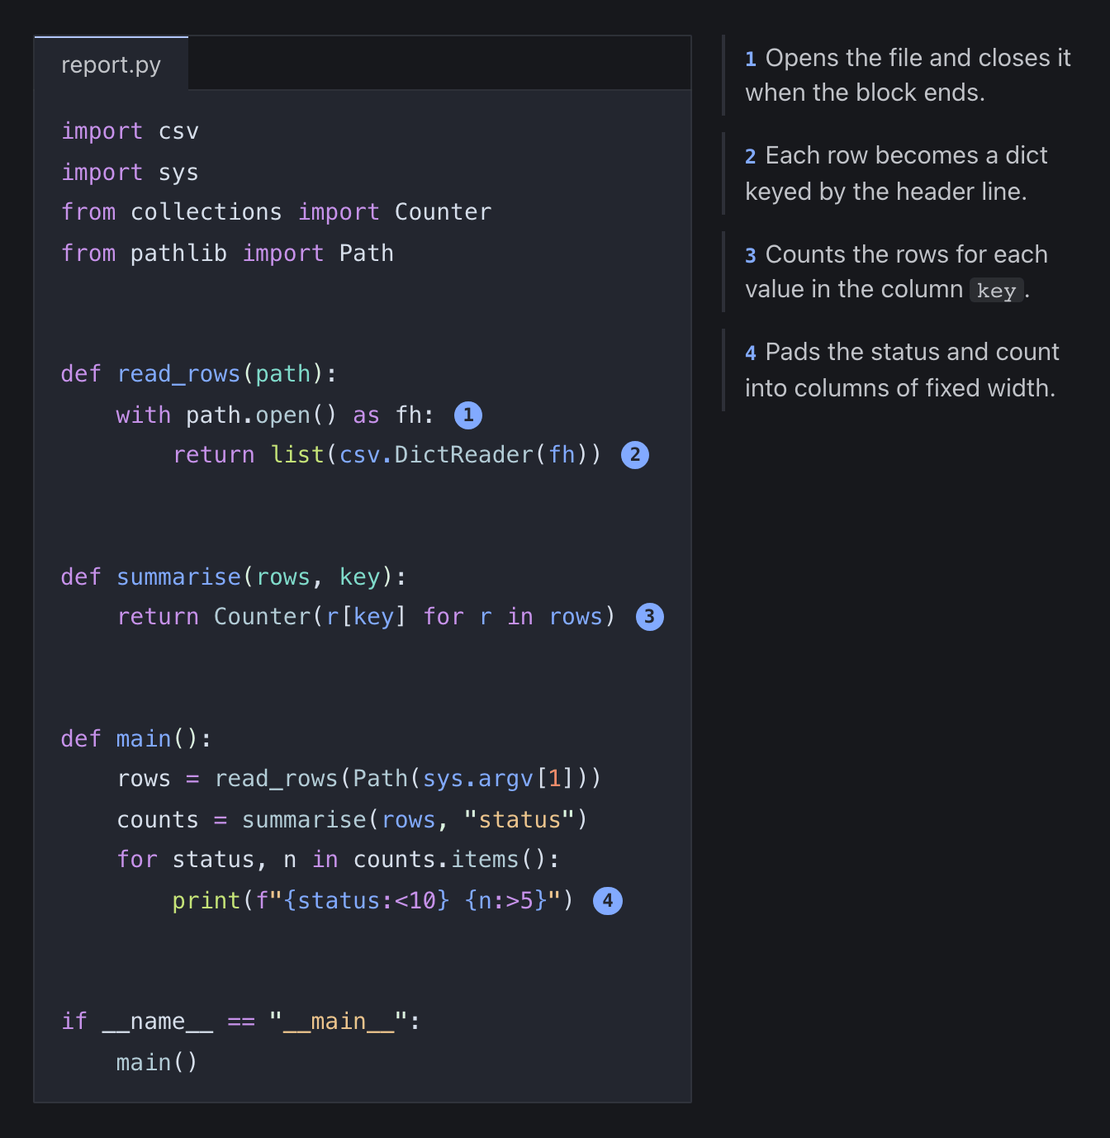
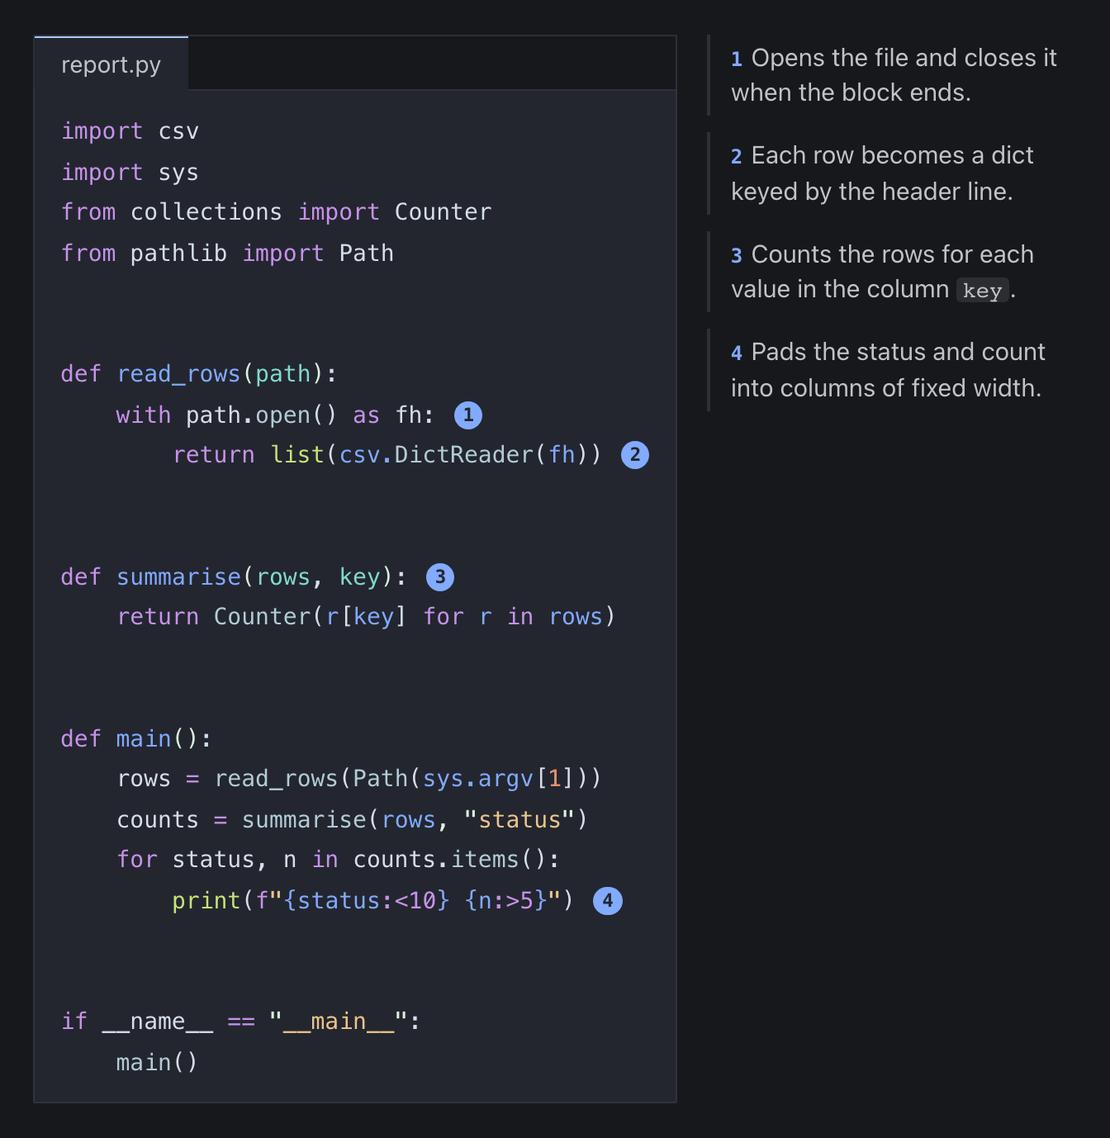
annotations: side-by-side width from the longest line, spread on pages without a table of contents
Each side-by-side block gets a 600, 800 or 1000 px container threshold from its longest line, so a block with long lines shows the notes as a list instead of scrolling in a narrow code column. On a page without a table of contents, blocks of 800 and 1000 px spread by the same amount on both sides of the content column, as far as their columns need.

Adds an unlisted docs demo page without a table of contents, and Playwright checks at several widths, with a table of contents, and with a classic scrollbar.

Changed region(s): [[0.5938, 0.0312, 0.9688, 0.3745], [0.5625, 0.5305, 0.625, 0.5617], [0.375, 0.4993, 0.4062, 0.5305]]

diff --git a/packages/starlight-codeblocks/src/expressive-code/annotations.ts b/packages/starlight-codeblocks/src/expressive-code/annotations.ts
@@ -25,6 +25,29 @@ declare module '@expressive-code/core' {
   }
 }
 
+/** Container widths, in px, at which a side-by-side block can become two columns. */
+const SIDE_SIZES = [600, 800, 1000];
+
+/**
+ * The smallest size whose code column shows `chars` characters without scrolling: 8.4 px per character
+ * at Starlight's 14 px code font, 34 px of frame padding, and 210 px for the gap and the notes.
+ * Longer lines get the largest size and scroll.
+ */
+function sideSize(chars: number) {
+  const need = 244 + chars * 8.4;
+  return SIDE_SIZES.find((w) => w >= need) ?? SIDE_SIZES[SIDE_SIZES.length - 1];
+}
+
+/**
+ * Blocks too wide for Starlight's content column, placed straight in a page without a table of contents.
+ * They spread over the free space on both sides of the column; the grid keeps to the column until
+ * the columns fit. It must start with `:root` and not name `.expressive-code`, or Expressive Code
+ * scopes it inside the block.
+ */
+const BREAKOUT = `:root:not([data-has-toc]) .sl-markdown-content > * > :is(${SIDE_SIZES.slice(1)
+  .map((w) => `.${PREFIX}-side-${w}`)
+  .join(', ')})`;
+
 const styleSettings = new PluginStyleSettings({
   defaultValues: {
     codeblocksAnnotations: {
@@ -138,6 +161,19 @@ export function pluginAnnotations(): CodeblocksPlugin {
 .ec-line.${cls('-lit')} { background: ${cssVar('codeblocksAnnotations.lineBackground')}; }
 .ec-line.${cls('-lit')} .code { --ecLineBrdCol: ${cssVar('codeblocks.accent')}; --ecGtrBrdWd: 3px; }
 .${PREFIX}-side { container-type: inline-size; }
+.${PREFIX}-side-grid { margin-inline: var(--${PREFIX}-side-outset, 0px); }
+@media (min-width: 72rem) {
+  ${BREAKOUT} {
+    --${PREFIX}-side-outset: max(0px, (100vw - 2 * var(--sl-content-pad-x) - var(--sl-content-width)) / 2);
+    margin-inline: calc(-1 * var(--${PREFIX}-side-outset));
+  }
+  :root[data-has-sidebar]${BREAKOUT.slice(':root'.length)} {
+    --${PREFIX}-side-outset: max(
+      0px,
+      (100vw - var(--sl-sidebar-width) - 2 * var(--sl-content-pad-x) - var(--sl-content-width)) / 2
+    );
+  }
+}
 .${cls('-notes')} {
   margin: 0.75rem 0 0;
   padding: 0;
@@ -170,20 +206,23 @@ export function pluginAnnotations(): CodeblocksPlugin {
   background: color-mix(in srgb, currentColor 12%, transparent);
   font-size: 0.9em;
 }
-@container (min-width: 600px) {
-  .${PREFIX}-side-grid {
+${SIDE_SIZES.map(
+  (w) => `@container (min-width: ${w}px) {
+  .${PREFIX}-side-${w} > .${PREFIX}-side-grid {
+    margin-inline: max(0px, min(var(--${PREFIX}-side-outset, 0px), (100% - ${w}px) / 2));
     display: grid;
     grid-template-columns: minmax(0, auto) minmax(12rem, 1fr);
     gap: 18px;
     align-items: start;
   }
-  .${cls('-notes')} {
+  .${PREFIX}-side-${w} .${cls('-notes')} {
     position: sticky;
     top: calc(var(--sl-nav-height, 0px) + var(--sl-mobile-toc-height, 0px) + 1rem);
     margin: 0;
   }
-  .${PREFIX}-side-static .${cls('-notes')} { position: static; }
-}
+}`,
+).join('\n')}
+.${PREFIX}-side-static .${cls('-notes')} { position: static; }
 .${cls('-list')} { display: none; }
 @media print {
   .${cls('-list')} {
@@ -252,9 +291,16 @@ export function pluginAnnotations(): CodeblocksPlugin {
         }
         // The notes sit outside the frame, so the block becomes a two-column grid when its container is wide.
         const notes = h('ol', { class: cls('-notes') }, items);
-        renderData.blockAst = h('div', { class: `${PREFIX}-side not-content`, dataScbAnnotations: '' }, [
-          h('div', { class: `${PREFIX}-side-grid` }, [renderData.blockAst, notes]),
-        ]);
+        // A number takes about 3 characters, and the copy button pads the first line by about 4.
+        const numbered = new Set(ordered.map(({ directive }) => directive.lines[0]));
+        const size = sideSize(
+          Math.max(...lines.map((line, i) => line.text.length + (numbered.has(line) ? 3 : 0) + (i === 0 ? 4 : 0))),
+        );
+        renderData.blockAst = h(
+          'div',
+          { class: `${PREFIX}-side ${PREFIX}-side-${size} not-content`, dataScbAnnotations: '' },
+          [h('div', { class: `${PREFIX}-side-grid` }, [renderData.blockAst, notes])],
+        );
       },
     },
   };

diff --git a/docs/e2e/side-by-side.test.ts b/docs/e2e/side-by-side.test.ts
@@ -127,3 +127,89 @@ test('the code of every example fits its column on a desktop, without a scroll b
     }
   }
 });
+
+type Page = import('@playwright/test').Page;
+
+/** The box of a side-by-side block's grid and the content column, and whether the notes are beside the code. */
+async function measure(page: Page, index: number) {
+  const side = page.locator('.sl-markdown-content > .expressive-code > .scb-side').nth(index);
+  const grid = side.locator('.scb-side-grid');
+  return {
+    column: await page.locator('.sl-markdown-content').boundingBox(),
+    grid: await grid.boundingBox(),
+    display: await grid.evaluate((el) => getComputedStyle(el).display),
+    overflow: await page.evaluate(() => document.documentElement.scrollWidth - document.documentElement.clientWidth),
+  };
+}
+
+test.describe('on a page without a table of contents', () => {
+  test.skip(({ isMobile }) => isMobile, 'Phones have no space beside the content column.');
+
+  test('wide blocks spread by the same amount on each side, as far as the columns need', async ({ page }) => {
+    await page.setViewportSize({ width: 1440, height: 900 });
+    await page.goto('./features/side-by-side-annotations/wide/');
+    for (const [index, width] of [
+      [0, 800],
+      [1, 1000],
+    ]) {
+      const { column, grid, display, overflow } = await measure(page, index);
+      expect(display).toBe('grid');
+      expect(grid?.width).toBeCloseTo(width, 0);
+      const left = (column?.x ?? 0) - (grid?.x ?? 0);
+      const right = (grid?.x ?? 0) + (grid?.width ?? 0) - (column?.x ?? 0) - (column?.width ?? 0);
+      expect(Math.abs(left - right)).toBeLessThan(1);
+      expect(overflow).toBe(0);
+    }
+  });
+
+  test('a block that fits the content column does not spread', async ({ page }) => {
+    await page.setViewportSize({ width: 1440, height: 900 });
+    await page.goto('./features/side-by-side-annotations/wide/');
+    const { column, grid, display } = await measure(page, 2);
+    expect(display).toBe('grid');
+    expect(grid?.x).toBeCloseTo(column?.x ?? 0, 0);
+    expect(grid?.width).toBeCloseTo(column?.width ?? 0, 0);
+  });
+
+  test('a block keeps to the content column when the window is too narrow for its columns', async ({ page }) => {
+    await page.setViewportSize({ width: 1280, height: 900 });
+    await page.goto('./features/side-by-side-annotations/wide/');
+    expect((await measure(page, 0)).display).toBe('grid');
+    const { column, grid, display, overflow } = await measure(page, 1);
+    expect(display).toBe('block');
+    expect(grid?.x).toBeCloseTo(column?.x ?? 0, 0);
+    expect(grid?.width).toBeCloseTo(column?.width ?? 0, 0);
+    expect(overflow).toBe(0);
+  });
+
+  test('no block spreads below the width at which Starlight shows a table of contents', async ({ page }) => {
+    await page.setViewportSize({ width: 1100, height: 900 });
+    await page.goto('./features/side-by-side-annotations/wide/');
+    for (const index of [0, 1]) {
+      const { column, grid } = await measure(page, index);
+      expect(grid?.width).toBeCloseTo(column?.width ?? 0, 0);
+    }
+  });
+});
+
+test('a wide block keeps to the content column on a page with a table of contents', async ({ page, isMobile }) => {
+  test.skip(isMobile, 'The phone layout has no column.');
+  await page.setViewportSize({ width: 1920, height: 900 });
+  const { render } = await import('../../packages/starlight-codeblocks/test/render.ts');
+  const { html } = await render(
+    [
+      '```py annotations="side"',
+      'rows = [r for r in read_rows(path) if r["ok"]]  # [!annotate] Keeps the rows to report.',
+      '```',
+    ].join('\n'),
+  );
+  await page.evaluate((html) => {
+    const box = document.createElement('div');
+    box.innerHTML = html;
+    document.querySelector('.sl-markdown-content')?.prepend(box.firstElementChild as Element);
+  }, html);
+  const { column, grid, display } = await measure(page, 0);
+  expect(display).toBe('block');
+  expect(grid?.x).toBeCloseTo(column?.x ?? 0, 0);
+  expect(grid?.width).toBeCloseTo(column?.width ?? 0, 0);
+});

diff --git a/docs/e2e/agents.test.ts b/docs/e2e/agents.test.ts
@@ -1,9 +1,11 @@
 import { readdirSync, readFileSync } from 'node:fs';
 import { expect, test } from '@playwright/test';
+import { unlisted } from '../src/sidebar.mjs';
 
 const site = 'https://ewels.github.io/starlight-codeblocks/';
 const sitemap = readFileSync(new URL('../dist/sitemap-0.xml', import.meta.url), 'utf8');
 const pages = [...sitemap.matchAll(/<loc>[^<]*?\/starlight-codeblocks\/([^<]*)<\/loc>/g)].map(([, path]) => path ?? '');
+const listed = pages.filter((path) => !unlisted.includes(path.replace(/\/$/, '')));
 const local = (url: string) => `./${url.slice(site.length)}`;
 
 const oneProject = () =>
@@ -32,13 +34,13 @@ test('llms.txt lists the Markdown version of every page', async ({ request }) =>
   const response = await request.get('./llms.txt');
   expect(response.status()).toBe(200);
   const text = await response.text();
-  for (const path of pages) expect(text).toContain(`(${site}${path ? path.replace(/\/$/, '') : 'index'}.md)`);
+  for (const path of listed) expect(text).toContain(`(${site}${path ? path.replace(/\/$/, '') : 'index'}.md)`);
 });
 
 test('llms-full.txt has every page', async ({ request }) => {
   oneProject();
   const text = await (await request.get('./llms-full.txt')).text();
-  for (const path of pages) expect(text).toContain(`<!-- ${site}${path} -->`);
+  for (const path of listed) expect(text).toContain(`<!-- ${site}${path} -->`);
 });
 
 test('the agent skill page has every skill file, on the page and in its Markdown', async ({ page, request }) => {

diff --git a/packages/starlight-codeblocks/test/annotations.test.ts b/packages/starlight-codeblocks/test/annotations.test.ts
@@ -53,7 +53,7 @@ test('annotations="side" puts the notes in a column beside the block, with numbe
     block('py annotations="side"', 'x = 1  # [!annotate] Sets `x`.', 'y = 2  # [!annotate] Sets y.'),
   );
   expect(html).toMatch(
-    /^<div class="expressive-code"><div class="scb-side not-content" data-scb-annotations=""><div class="scb-side-grid"><figure/,
+    /^<div class="expressive-code"><div class="scb-side scb-side-600 not-content" data-scb-annotations=""><div class="scb-side-grid"><figure/,
   );
   expect(html).toContain('<div class="ec-line" data-scb-anno="1">');
   expect(html).toContain('<span class="scb-annotation scb-annotation-num" aria-hidden="true">1</span>');
@@ -62,6 +62,17 @@ test('annotations="side" puts the notes in a column beside the block, with numbe
   );
   expect(html).not.toContain('popover');
   expect(copyText).toBe('x = 1\ny = 2');
+});
+
+test('annotations="side" needs a wider container for the columns when the lines are longer', async () => {
+  const size = async (chars: number) => {
+    const { html } = await render(block('py annotations="side"', `x = ${'1'.repeat(chars - 4)}  # [!annotate] Note`));
+    return html.match(/scb-side-(\d+)/)?.[1];
+  };
+  expect(await size(30)).toBe('600');
+  expect(await size(55)).toBe('800');
+  expect(await size(80)).toBe('1000');
+  expect(await size(200)).toBe('1000');
 });
 
 test('warns about an unknown annotations value and uses popovers', async () => {

diff --git a/docs/e2e/side-by-side-scrollbar.test.ts b/docs/e2e/side-by-side-scrollbar.test.ts
@@ -1,0 +1,23 @@
+import { expect, test } from '@playwright/test';
+
+// Playwright hides scrollbars by default, and `100vw` includes a classic one.
+test.use({ launchOptions: { ignoreDefaultArgs: ['--hide-scrollbars'] } });
+
+test('a wide side-by-side block does not make the page scroll sideways with a classic scrollbar', async ({
+  page,
+  isMobile,
+  browserName,
+}) => {
+  test.skip(isMobile || browserName !== 'chromium', 'Needs a desktop Chromium window.');
+  await page.setViewportSize({ width: 1440, height: 900 });
+  await page.goto('./features/side-by-side-annotations/wide/');
+  await page.addStyleTag({
+    content: '::-webkit-scrollbar { width: 17px; } ::-webkit-scrollbar-thumb { background: grey; }',
+  });
+  expect(await page.evaluate(() => innerWidth - document.documentElement.clientWidth)).toBeGreaterThan(10);
+  const grids = page.locator('.sl-markdown-content > .expressive-code > .scb-side > .scb-side-grid');
+  expect(await grids.nth(1).evaluate((el) => getComputedStyle(el).display)).toBe('grid');
+  expect(await page.evaluate(() => document.documentElement.scrollWidth - document.documentElement.clientWidth)).toBe(
+    0,
+  );
+});

diff --git a/docs/src/markdown.ts b/docs/src/markdown.ts
@@ -11,7 +11,7 @@ import {
   pageOptions,
   styleGroups,
 } from './components/reference.ts';
-import { sidebar } from './sidebar.mjs';
+import { sidebar, unlisted } from './sidebar.mjs';
 
 const base = import.meta.env.BASE_URL.replace(/\/$/, '');
 export const siteUrl = new URL(`${base}/`, import.meta.env.SITE).href;
@@ -31,6 +31,7 @@ export async function entriesInOrder() {
     groups.push({ label: group.label, entries: ids.map((id) => entries.get(id)).filter((e) => e !== undefined) });
     for (const id of ids) entries.delete(id);
   }
+  for (const id of unlisted) entries.delete(id);
   if (entries.size > 0) throw new Error(`Pages missing from the sidebar: ${[...entries.keys()].join(', ')}`);
   return groups;
 }

diff --git a/design/DECISIONS.md b/design/DECISIONS.md
@@ -1292,3 +1292,19 @@ Use this format:
 - Decision: The Sätteri plugin runs the code mention check only when the render has a `fileURL`. With no file, mention links stay links and the client module pairs them on the page.
 - Reason: starlight-pydocs renders each part of a docstring (the description, each Examples item) in its own render with no `fileURL`, so a mention in the description of a block in the Examples was always stripped. Pages that Astro renders from content files always have a `fileURL`, so their check still runs.
 - Alternatives: A way for pydocs to pass all fragments of one docstring in one render (a change to pydocs for one feature). Keeping the strip (the reported limit).
+
+## Side-by-side annotations: a width class from the longest line
+
+- Date: 2026-09-28
+- Step: after the plan
+- Decision: The side-by-side wrapper gets `scb-side-600`, `scb-side-800` or `scb-side-1000`, and the grid starts at that container width. The plugin picks the smallest width that holds the longest line at build time: 244 px (34 px of frame padding, 18 px of gap, 12rem of notes) plus 8.4 px per character, with 3 characters for a numbered line and 4 for the first line (the copy button). A block that is too long for 1000 px gets 1000 px and scrolls. The notes column is `minmax(12rem, 1fr)` beside `minmax(0, auto)` code.
+- Reason: With one 600 px threshold, most real blocks scrolled in a code column of about 42 characters on a default Starlight page, so the notes column cost more than it gave. Container queries cannot read a value per block, so a few classes are the closest CSS-only form. 8.4 px per character and the padding were measured in Chromium with Starlight's default 14 px code font; the estimate is within 1 px there.
+- Alternatives: A client script that measures the code and toggles the grid (layout shift, and JavaScript for a layout that works without it). `@container style()` queries (no Firefox support). No columns for blocks over 1000 px (loses the columns on wide splash pages, where a little scroll is better than a list).
+
+## Side-by-side annotations: spread past the content column on pages without a table of contents
+
+- Date: 2026-09-28
+- Step: after the plan
+- Decision: At 72rem and wider, on a page without `data-has-toc`, a `scb-side-800` or `scb-side-1000` wrapper that is a grandchild of `.sl-markdown-content` (its `.expressive-code` is directly on the page) gets `--scb-side-outset`: half of `100vw` minus the sidebar width (when `data-has-sidebar`), twice `--sl-content-pad-x` and `--sl-content-width`, and not below 0. Its inline margins are minus that value on each side, so the container widens symmetrically. The grid has the same value as positive margins, so it stays in the content column until the container reaches the block's width; from there its margins are `max(0px, min(outset, (100% - width) / 2))`, so it grows only to its width class. The docs have a demo page without a table of contents (`features/side-by-side-annotations/wide`), listed in `unlisted` in `sidebar.mjs` and left out of the sidebar and `llms.txt`.
+- Reason: Starlight keeps `--sl-content-width` at 45rem on a page without a table of contents and centres the column (`margin-inline: auto` at 72rem), so the space is free on both sides. Spreading only the blocks that need it keeps the text at a readable width, as in Distill and Tufte layouts; Starlight has no precedent of its own. A symmetric spread looks deliberate, where a block that sticks out on one side looks broken. `100vw` includes a classic scrollbar, which makes the outset up to half a scrollbar too large on each side; that eats into the 1.5rem page padding and does not overflow (a Playwright test with a 17 px scrollbar checks this). The selector starts with `:root` and does not name `.expressive-code`, because Expressive Code otherwise scopes it inside the block. Blocks in tabs, asides, lists and components do not match, because their parent is not directly on the page.
+- Alternatives: Telling authors to set `--sl-content-width: 60rem` on pages without a table of contents (widens the text too, and gives less space: 960 px against about 1090 px at 1440 px). Spreading to the right only (looks like a bug next to the text). A container on Starlight's `.main-pane` for an exact width (changes Starlight's layout for every element on the page). Spreading every side-by-side block (a block that fits would stop lining up with the text). An option to turn it off (nothing needs it yet; an author who does not want it keeps the table of contents).

diff --git a/design/PROGRESS.md b/design/PROGRESS.md
@@ -157,3 +157,5 @@ Update this file after each step in `PLAN.md`. Use one of these states: not star
 | Annotation popover out of the marker | done | The popover starts with a copy of the marker badge over the marker, and the box goes to the right of the line when it fits there without covering code or leaving the block or window; otherwise it opens centred under the marker as before, with the badge inside (DECISIONS.md). A 160 ms clip grow, off under reduced motion. Playwright checks for both placements, a narrow window, a long line, the keyboard and reduced motion. Docs, accessibility page, skill and README image updated. |
 | Docs site: page actions as a split button | done | `docs/src/components/PageTitle.astro` (docs site only): the four separate buttons became a split button, "Copy as Markdown" as the primary action plus a caret that opens a menu ("View as Markdown", "Open in Claude", "Open in ChatGPT") built on the native Popover API, with roving-tabindex arrow keys, Escape and outside click closing it, and focus returning to the caret (DECISIONS.md). Without JavaScript the whole split button is replaced by the three actions as plain links. `simple-icons` (CC0, devDependency, build time only like the existing `lucide-static` use) supplies the Claude mark; ChatGPT's mark was pulled from `simple-icons`, so it uses Starlight's own `comment-alt` icon instead (DECISIONS.md). `docs/e2e/agents.test.ts` rewritten for the new interaction model, plus a without-JavaScript check. |
 | starlight-pydocs integration and three site-wide features | done | Expandable `auto` line count, with `expandable=false`, skipping switcher variants, runnable and collapsed blocks and the blocks in `<CodeSteps>` and `<Scrollycoding>`. `inlineHighlighting.defaultLanguage`, with `{:txt}` (and `text`, `plain`, `plaintext`) for plain inline code; no measurable build cost on the docs site (946 chips, 3.7 to 4.1 s both ways). Smart shell copy for Python `>>>` sessions in `python`, `py` and `pycon`, with the REPL's continuation rule and the editor frame; API links skip output lines. The Python adapter reads the starlight-pydocs registry at lookup time; the Griffe dump reader, its printers and the `pydocs` option are deleted. The codeblocks registry and `options.inlineHighlighting` are a public contract, with a test. Code mention links are not stripped in a render with no file. Unit tests, a Playwright test for the session example, docs pages, reference data, skill, README, CHANGELOG and accessibility page updated (DECISIONS.md, six entries). `pnpm lint`, `pnpm test`, `pnpm docs:build` (no warnings), `pnpm lint:docs` and full `pnpm test:e2e` (1,693 passed, 452 skipped) pass. |
+| Side-by-side annotations: width from the longest line | done | Each block gets a 600, 800 or 1000 px container threshold from its longest line, so blocks with long lines keep the list under the code on a default page instead of scrolling in a narrow column (DECISIONS.md). The docs example moves one note off its longest line. Feature page and skill describe the widths and the `tableOfContents: false` plus `--sl-content-width` tip. Unit test for the width classes. |
+| Side-by-side annotations: spread on pages without a table of contents | done | Blocks of the 800 and 1000 px widths spread by the same amount on both sides of the content column on pages without a table of contents, as far as their columns need, and stay in the column when the space is too small (DECISIONS.md). Replaces the `--sl-content-width` tip. New unlisted demo page `features/side-by-side-annotations/wide` (`unlisted` in `sidebar.mjs`). Playwright checks on the demo page at 1100, 1280 and 1440 px, with a table of contents, and with a 17 px classic scrollbar. Feature page and skill updated. |

diff --git a/skills/starlight-codeblocks/references/explain-code.md b/skills/starlight-codeblocks/references/explain-code.md
@@ -102,11 +102,13 @@ with path.open() as fh:  # [!annotate] Opens the file and closes it when the blo
 ```
 ````
 
-- In a container of 600 px or more, the notes are a column beside the code. The column sticks below the site header.
+- The notes are a column beside the code when the container has space for the longest line. From its longest line, each block gets a width of 600, 800 or 1000 px. These hold about 42, 66 or 90 characters. The column sticks below the site header.
+- In Starlight's default content column (45rem), only blocks with lines of about 42 characters or fewer get columns. Keep the lines of a side-by-side block short, or move a note off the longest line.
+- For a page with longer lines, set `tableOfContents: false` in its frontmatter. Then a block that needs 800 or 1000 px spreads over the free space on each side of the content column. The text stays 45rem wide. This works only for a block directly on the page, not in tabs, asides, lists or components.
 - In a narrower container, such as on a phone, the notes are a numbered list under the block.
 - Hovering over a note, or focusing it, highlights its line. Hovering over a line highlights its note.
 - No options of its own. `annotations: false` turns it off.
-- Limits: each note is next to its number, not next to its line. Long lines scroll inside the narrower code column.
+- Limits: each note is next to its number, not next to its line. Lines of more than about 90 characters scroll inside the code column.
 
 ## Scrollycoding
 

diff --git a/design/DOCS-SITE.md b/design/DOCS-SITE.md
@@ -12,7 +12,7 @@ The docs site lives in `docs/`. It is a Starlight site that uses the plugin thro
 
 ## Sidebar
 
-The feature groups say what authors use the features for, not how the features work. Each group has two to five pages. Comment notation is syntax that many features use, so it is in "Start here". `docs/src/sidebar.mjs` is the source; the README, `llms.txt`, the accessibility page and the home page follow its groups and order.
+The feature groups say what authors use the features for, not how the features work. Each group has two to five pages. Comment notation is syntax that many features use, so it is in "Start here". `docs/src/sidebar.mjs` is the source; the README, `llms.txt`, the accessibility page and the home page follow its groups and order. Its `unlisted` array names demo pages that a feature page links to, such as a page without a table of contents; they are not in the sidebar or `llms.txt`.
 
 ```
 Start here

diff --git a/packages/starlight-codeblocks/CHANGELOG.md b/packages/starlight-codeblocks/CHANGELOG.md
@@ -10,7 +10,7 @@ The first version of the plugin. It adds these features to the code blocks of St
 - Inline callouts: a bubble that points at a word on a line.
 - Annotations: numbered popover notes.
 - Footnotes: numbered notes under the block, with an optional sticky list.
-- Side-by-side annotations: notes in a column next to the code.
+- Side-by-side annotations: notes in a column next to the code, when the longest line fits. On a page without a table of contents, wide blocks spread past the content column.
 - Hidden lines: lines that readers can show, and that the copy button still copies.
 - Smart shell copy: a Copy commands button in the title bar of terminal blocks, and of Python blocks with `>>>` prompts, copies the commands without prompts or output.
 - Word-level diff: a highlight on the words that changed between a removed line and an added line.
